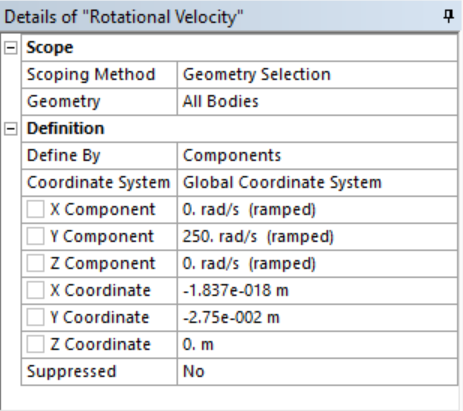
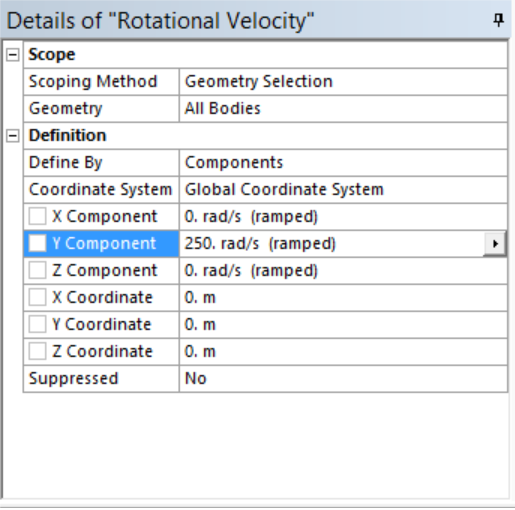
fixing ansys tutorial

diff --git a/_posts/teaching/productdesign/2016-11-20-ansys.md b/_posts/teaching/productdesign/2016-11-20-ansys.md
@@ -67,18 +67,25 @@ in this case. The following sections describes how these simulations are set up.
  
  <img src="/_images/tutorial_ansys/structural2.png" alt="Drawing" style="height: 200px;"/> 
  
- * Right click Static Structural -> Insert -> Rotational Velocity -> Set values as shown
+ * Right click Static Structural -> Insert -> Rotational Velocity -> Set 250 rad/s to the y-axis of the brake disk
  
  <img src="/_images/tutorial_ansys/structural3.png" alt="Drawing" style="height: 300px;"/> 
- 
+ <img src="/_images/tutorial_ansys/structural31.png" alt="Drawing" style="height: 300px;"/> 
+
  * Right click Static Structural -> Insert -> Pressure -> Enter the values as shown by selecting the outer brake pad faces. Do this for each outer brake pad face.
  
  <img src="/_images/tutorial_ansys/structural4.png" alt="Drawing" style="height: 200px;"/> 
  
- * Right click Static Structural -> Insert -> Displacement -> Enter the values by selecting all the faces of brake pads
+ * Right click Static Structural -> Insert -> Displacement -> Fix x- and z-axis displacement of all the faces of brake pads
  
  <img src="/_images/tutorial_ansys/structural5.png" alt="Drawing" style="height: 300px;"/> 
 
+ * Right click Static Structural -> Insert -> Displacement -> Fix y-axis displacement of all the faces of brake disk
+ 
+ <img src="/_images/tutorial_ansys/structural51.png" alt="Drawing" style="height: 300px;"/> 
+ <img src="/_images/tutorial_ansys/structural52.png" alt="Drawing" style="height: 300px;"/> 
+
+ 
  * Select the desired output values and solve by right clicking on Solution and hitting Solve. Set Equivalent von-Mises stress as output parameter.
 
  <img src="/_images/tutorial_ansys/structural6.png" alt="Drawing" style="height: 400px;"/> 
@@ -309,7 +316,7 @@ Having too few will cause overfitting, and having too many will leave too few da
 
 <img src="/_images/tutorial_ansys/verification.png" alt="Drawing" style="height: 400px;"/> 
 
-In academia and industries related to engineering design, you can see the term "V\&V", 
+In academia and industries related to engineering design, you can see the term "V&V", 
 which stands for "Verification and Validation". What's the 
 difference between the two? "Validation" is often referred to as testing a design in reality (with experiments) while
 "verification" means testing the design with simulations. 
